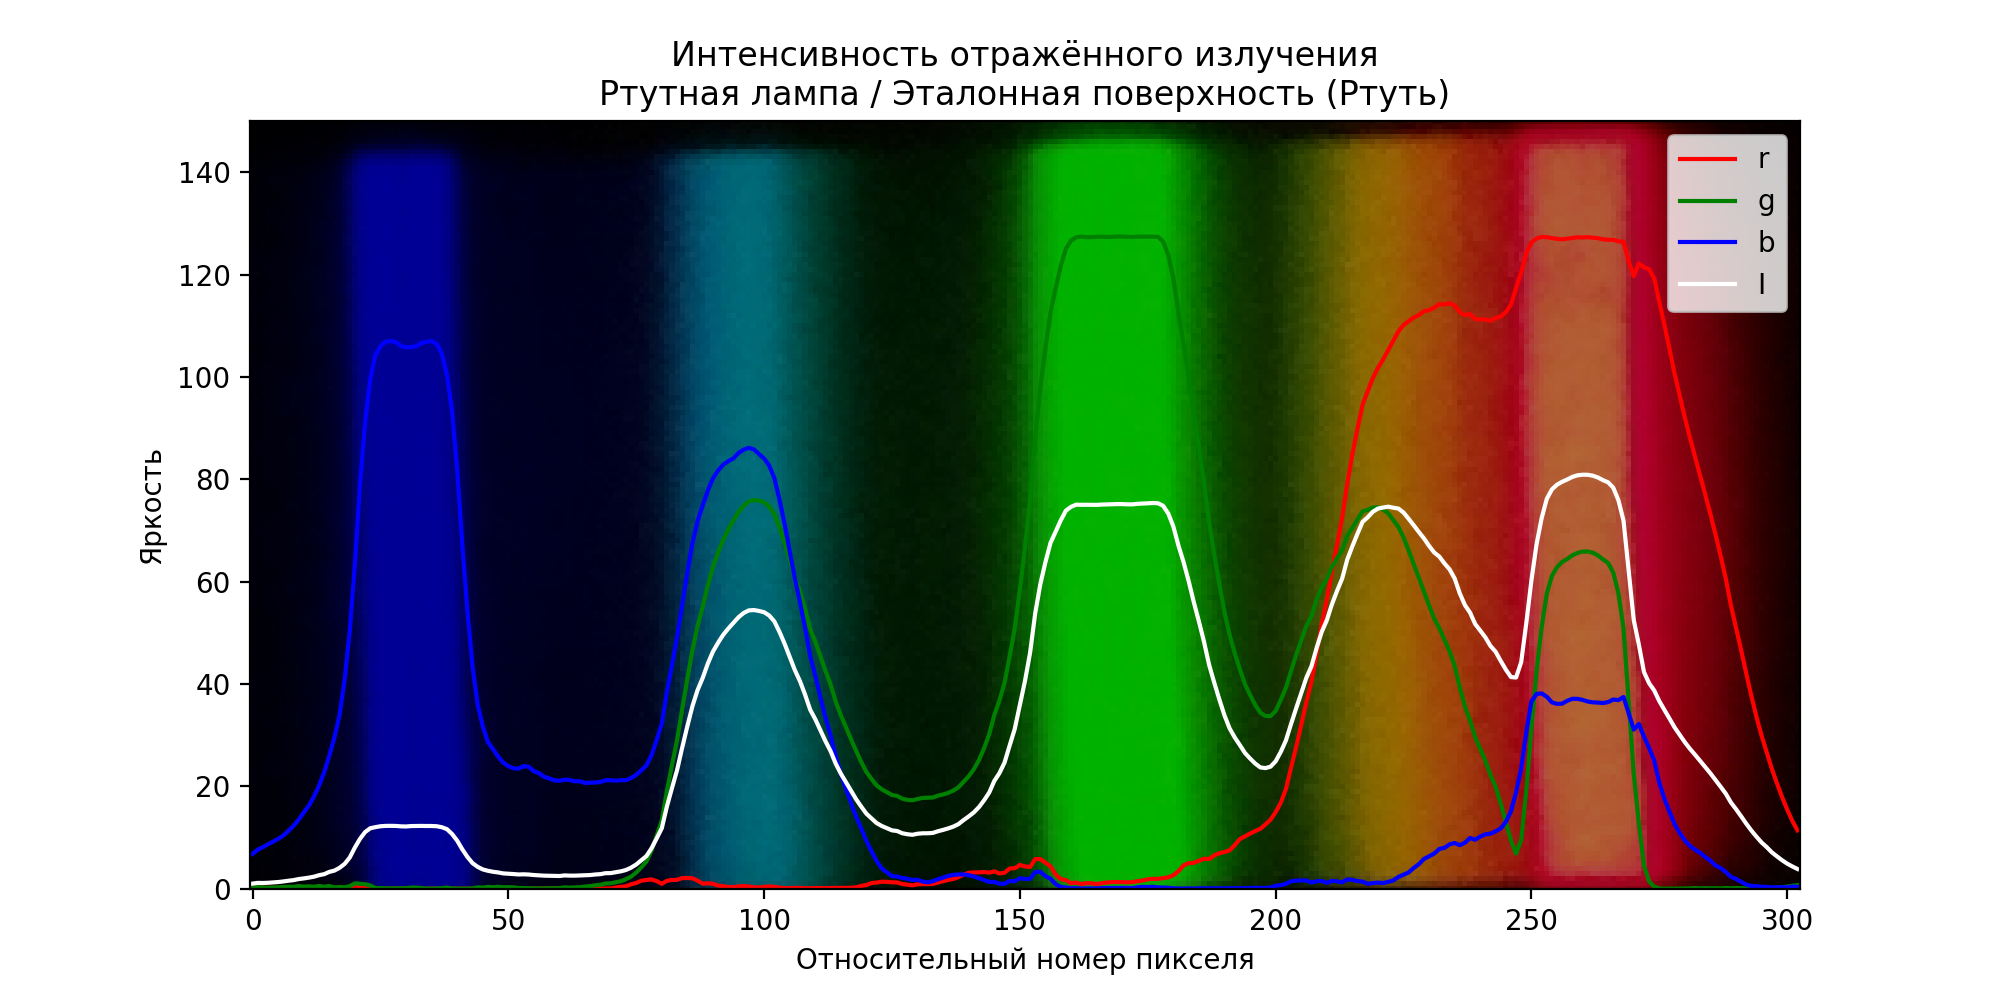
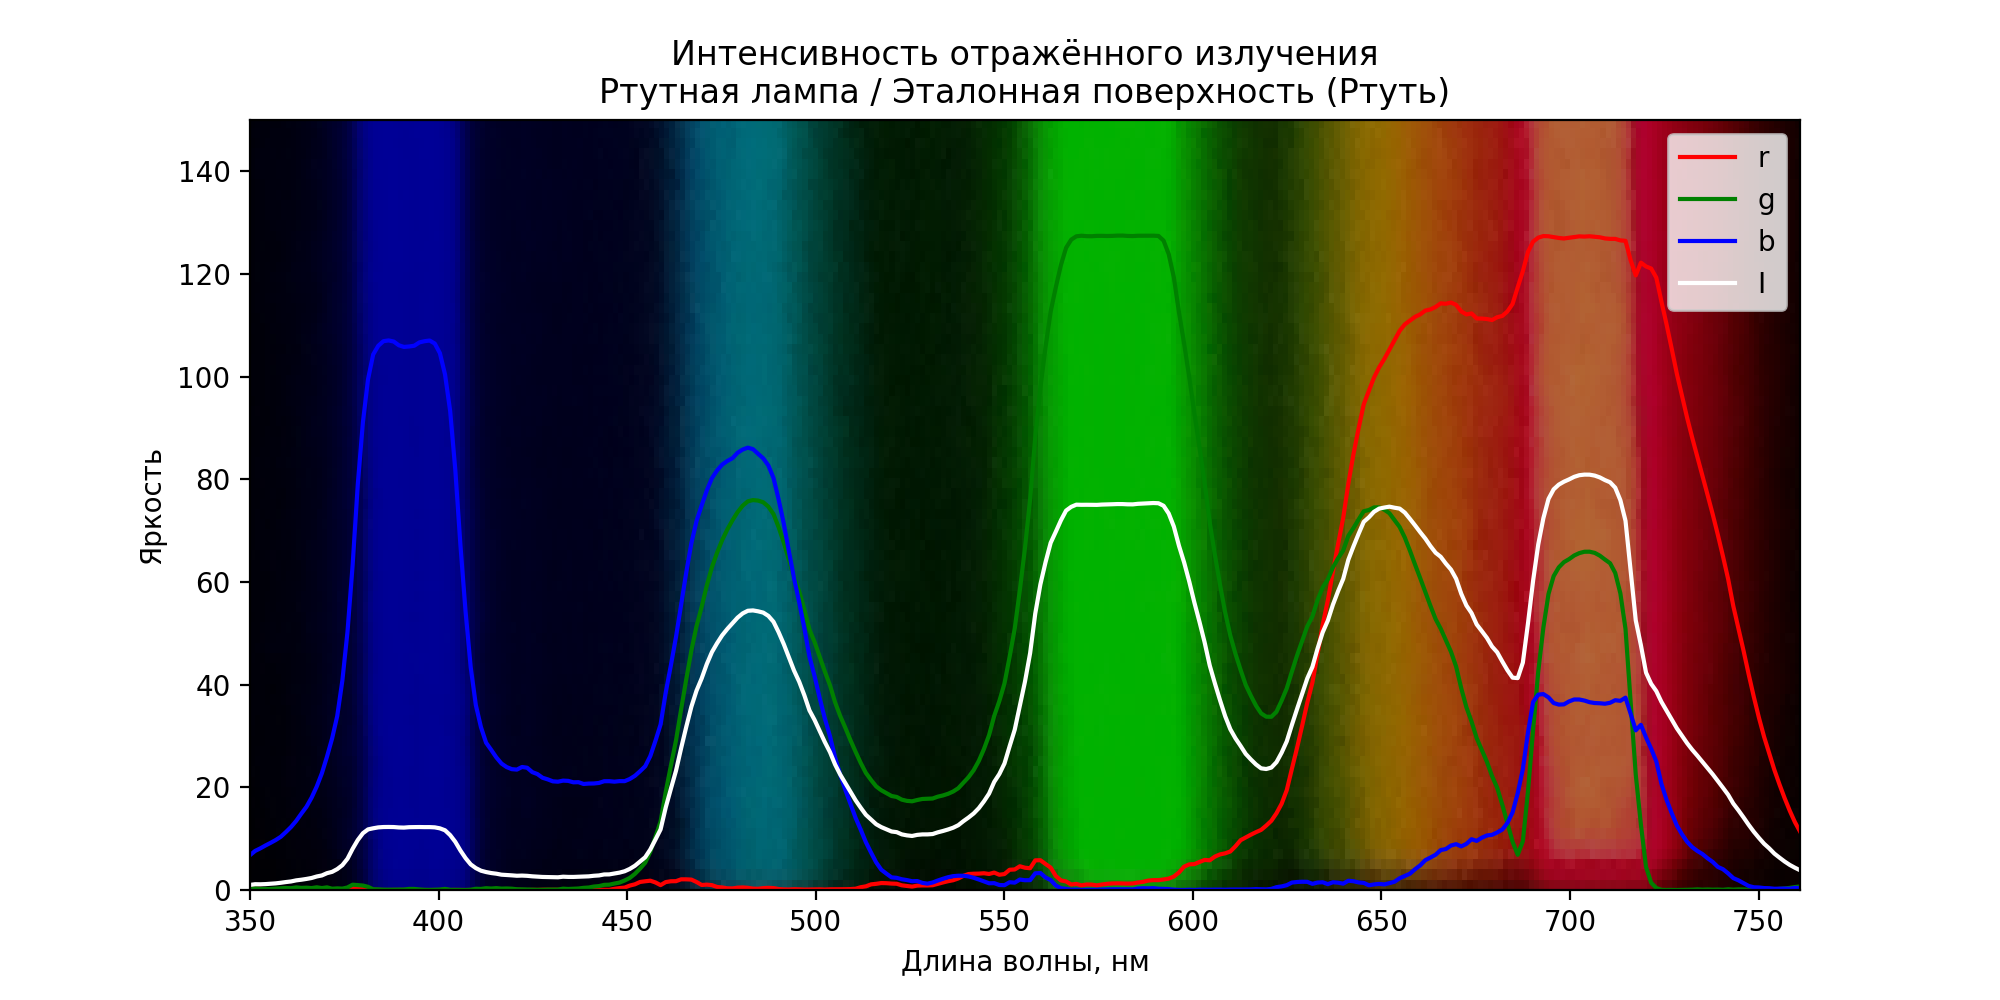
Add files via upload

diff --git a/ant3/code.py b/ant3/code.py
@@ -5,67 +5,96 @@ from cycler import cycler
 
 
 def readIntensity(photoName, plotName, lamp, surface):
+    x_min=350
+    x_max=761
+    x_step=50
+    """
+    x_min, x_max - диапазон значений на оси X (по умолчанию 0-100)
+    x_step - шаг меток на оси X (по умолчанию 10)
+    """
     photo = imageio.imread(photoName)
 
     # Обрезка по новым координатам
-    # x1=969, y1=403 (левый верхний угол)
-    # x2=1120, y2=706 (нижний правый угол)
-
-    # Background - используем немного меньшую область для фона (с отступом от краев)
     background_x_start = 969
     background_x_end = 1120
     background_y_start = 403
     background_y_end = 706
 
-    # Cut - основная область для анализа (можно использовать те же координаты или немного уже)
-    cut_x_start = 980  # Немного уже для анализа
-    cut_x_end = 1110  # Немного уже для анализа
+    cut_x_start = 980
+    cut_x_end = 1110
     cut_y_start = 403
     cut_y_end = 706
 
     # Обрезка изображений
     background = photo[background_y_start:background_y_end,
-    background_x_start:background_x_end, 0:3].swapaxes(0, 1)
+                background_x_start:background_x_end, 0:3].swapaxes(0, 1)
 
     cut = photo[cut_y_start:cut_y_end,
-    cut_x_start:cut_x_end, 0:3].swapaxes(0, 1)
+          cut_x_start:cut_x_end, 0:3].swapaxes(0, 1)
 
     rgb = np.mean(cut, axis=(0))
     luma = 0.2989 * rgb[:, 0] + 0.5866 * rgb[:, 1] + 0.1144 * rgb[:, 2]
 
-
+    # ↓↓↓ КЛЮЧЕВЫЕ ИЗМЕНЕНИЯ ↓↓↓
+    
+    # 1. Создаем новый массив X-координат
+    #    Старые координаты: 0, 1, 2, ..., len(luma)-1
+    #    Новые координаты: равномерно распределенные от x_min до x_max
+    x_coords = np.linspace(x_min, x_max, len(luma))
+    
+    # 2. Настраиваем метки оси X с нужным шагом
+    #    Создаем массив меток: x_min, x_min+x_step, x_min+2*x_step, ..., x_max
+    x_ticks = np.arange(x_min, x_max + x_step, x_step)
+    
     plt.rc('axes', prop_cycle=(cycler('color', ['r', 'g', 'b'])))
 
     fig = plt.figure(figsize=(10, 5), dpi=200)
 
     plt.title('Интенсивность отражённого излучения\n' + '{} / {}'.format(lamp, surface))
-    plt.xlabel('Относительный номер пикселя')
+    plt.xlabel('Длина волны, нм')
     plt.ylabel('Яркость')
 
-    #background_height = background.shape[1]  # высота фона в пикселях
-    #max_data_value = max(rgb.max(), luma.max())
-    #scale_factor = (background_height * 0.8) / max_data_value
-    
     rgb = rgb / 2
-    luma = luma /2 
+    luma = luma / 2
 
-    plt.plot(rgb, label=['r', 'g', 'b'])
-    plt.plot(luma, 'w', label='I')
+    # 3. Строим график с новыми X-координатами
+    plt.plot(x_coords, rgb, label=['r', 'g', 'b'])
+    plt.plot(x_coords, luma, 'w', label='I')
+    
     plt.ylim(0, 150)
     plt.legend()
+    
+    # 4. Устанавливаем метки на оси X
+    plt.xticks(x_ticks)
 
     background = (background * 0.7).astype(np.uint8)
 
-    plt.imshow(background, origin='lower')
+    # 5. Растягиваем фон, чтобы он соответствовал новому диапазону X
+    #    extent=[x_min, x_max, y_min, y_max] задает границы изображения
+    plt.imshow(background, origin='lower', 
+               extent=[x_min, x_max, 0, background.shape[1]], 
+               aspect='auto')
 
     plt.savefig(plotName)
 
     return luma
 
-readIntensity("GREEN.jpg", "график_зелёный.png", "Ртутная лампа", "Зелёная поверхность")
-#readIntensity("WHITE.jpg", "график_белый.png", "Лампа накаливания", "Белая поверхность")
-readIntensity("BLUE.jpg", "график_синий.png", "Лампа накаливания", "Синяя поверхность")
-readIntensity("RED.jpg", "график_красный.png", "Лампа накаливания", "Красная поверхность")
-readIntensity("RTUT2.jpg", "график_ртуть2.png", "Ртутная лампа", "Эталонная поверхность (Ртуть)")
-readIntensity("YELLOW.jpg", "график_желтый.png", "Лампа накаливания", "Жёлтая поверхность")
-readIntensity("WHITE_REFERENC.jpg", "график_эталон.png", "Лампа накаливания", "Эталонная белая поверхность")
+
+# Примеры использования с разными диапазонами:
+readIntensity("GREEN.jpg", "график_зелёный.png", "Ртутная лампа", 
+              "Зелёная поверхность")
+
+readIntensity("BLUE.jpg", "график_синий.png", "Лампа накаливания", 
+              "Синяя поверхность")
+
+readIntensity("RED.jpg", "график_красный.png", "Лампа накаливания", 
+              "Красная поверхность")
+
+readIntensity("RTUT2.jpg", "график_ртуть2.png", "Ртутная лампа", 
+              "Эталонная поверхность (Ртуть)")
+
+readIntensity("YELLOW.jpg", "график_желтый.png", "Лампа накаливания", 
+              "Жёлтая поверхность")
+
+readIntensity("WHITE_REFERENC.jpg", "график_эталон.png", "Лампа накаливания", 
+              "Эталонная белая поверхность")
